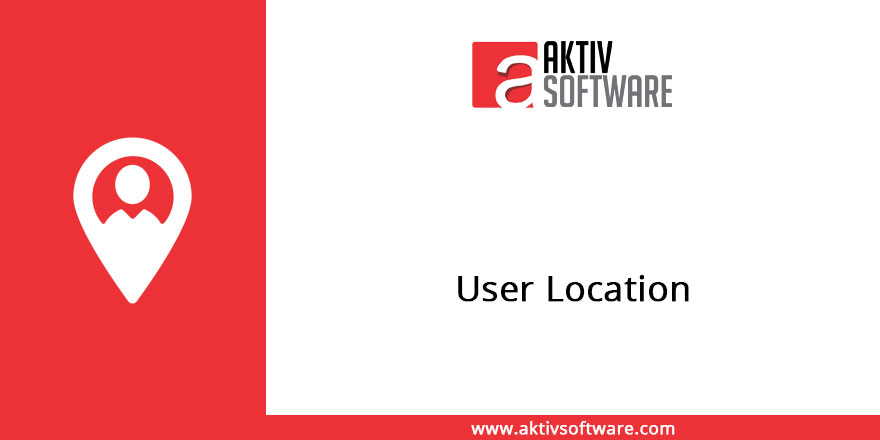
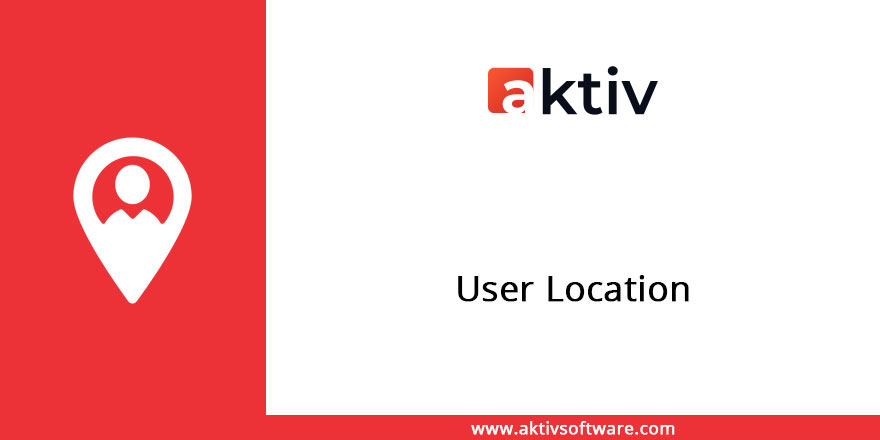
[INIT] Initial commit for User location for master branch

Changed region(s): [[0.5216, 0.0886, 0.767, 0.2659]]

diff --git a/user_location/static/description/index.html b/user_location/static/description/index.html
@@ -1,19 +1,54 @@
-<section class="oe_container oe_dark">
-    <div class="oe_row oe_padded">
-        
-    <div class="panel-heading"
-        style="padding: 8px; font-weight: 300; font-size: 20px; background-color: #004460;">
-        <i class="fa fa-cog" style="color: white;"></i> <b
-            style="color: white;">How it Works </b>
-    </div>
-
-    <h3 class="oe_slogan oe_mt16">Login History</h3>
-    <h6><span class="fa fa-hand-o-right"/> Users Logged In Time &amp; Logged In Location</h6>
-    <div class="oe_span12">
-        <div class="oe_row_img">
-            <img class="oe_picture oe_screenshot" src="login_info.png">
+<section class="oe_container">
+    <div class="oe_row oe_centered">
+        <div class="oe_span_10 oe_centered">
+            <h4 class="oe_slogan" style="margin-left: 120px;"><b><span class="fa fa-star fa-spin"></span>
+                    User Location </span></b></h4>
         </div>
     </div>
-    <br/>
-</section>
 
+    <p align="left">The User Location module allows the admin to track the time and location when a user logged in to the system. Under the Administrator tab you can find a new “Login History” field which will contain the time and location of recent logins.</p>
+
+    <div class="oe_row oe_centered">
+        <div class="oe_span_10 oe_centered">
+            <h4 class="oe_slogan" style="margin-left: 120px;"><b><span class="fa fa-star fa-spin"></span>
+                    Prerequisites before Installation </span></b></h4>
+        </div>
+    </div>
+    <p align="left">No prerequisites needed.</p>
+
+
+    <div class="oe_row oe_centered">
+        <div class="oe_span_10 oe_centered">
+            <h4 class="oe_slogan" style="margin-left: 120px;"><b><span class="fa fa-star fa-spin"></span>
+                    Configurations </span></b></h4>
+        </div>
+    </div>
+    <p align="left">No configurations.</p>
+
+
+    <div class="oe_centered">
+        <p>As shown in the below image Admin can get the access to view the login details of users. The login details will consist- location (Name of the city, State and Country), Date and time.</p>
+    </div>
+    <div class="oe_row oe_centered">
+        <div class="oe_span12">
+            <img src="login_info.png" style="width: 100%;"/>
+        </div>
+    </div>
+
+    <div class="oe_row oe_spaced">
+        <h2 class="oe_slogan">
+            <a href="http://aktivsoftware.com/" target="new">
+                <img src="aktiv-logo.png"/>
+            </a>
+            <br/>
+            <a href="mailto:sales@aktivsoftware.com" style="color: #000000 !important;">
+                        Get Help &amp; Support
+            </a>
+        </h2>
+        <div class="oe_slogan oe_spaced text-center">
+            <a class="btn btn success mt8" title="website" target="new" style="background-color:#ff4040;  color: #ffffff; !important; position:relative; overflow: hidden;" href="http://aktivsoftware.com/"><b>Website</b></a>
+            <a class="btn btn success mt8" title="Contact Us" style="background-color:#ff4040; color: #ffffff; !important; position:relative; overflow: hidden;" href="mailto:sales@aktivsoftware.com"><b>Contact Us</b></a>
+            <a class="btn btn success mt8" title="Request New Features Now!" style="background-color:#ff4040; color: #ffffff; !important; position:relative; overflow: hidden;" href="mailto:sales@aktivsoftware.com"><b>Request For New Features</b></a>
+        </div>
+    </div>
+</section>

diff --git a/user_location/__manifest__.py b/user_location/__manifest__.py
@@ -2,14 +2,17 @@
 {
     'name': 'User Location',
     'summary': 'Here users location is fetched',
-    'version': '10',
-    'author':"Aktiv Software",
+    'version': '11',
+    'license': "AGPL-3",
+    'author': "Aktiv Software",
     'category': 'sale',
     'depends': ['base'],
     'website': 'www.aktivsoftware.com',
     'data': [
         'views/res_user.xml',
     ],
+
+    'images': ['static/description/banner.jpg'],
     'installable': True,
     'auto_install': False,
 }

diff --git a/user_location/models/res_user.py b/user_location/models/res_user.py
@@ -7,8 +7,8 @@ class ResUserLog(models.Model):
     _inherit = 'res.users.log'
 
     location = fields.Char()
-    login_date = fields.Datetime(compute="_get_login_date",
-                                 string="Login Date")
+    login_date = fields.Datetime(
+        compute="_get_login_date", string="Login Date")
 
     @api.multi
     def _get_login_date(self):

diff --git a/user_location/models/__init__.py b/user_location/models/__init__.py
@@ -1,2 +1,1 @@
-# -*- coding: utf-8 -*-
-import res_user
+from . import res_user

diff --git a/user_location/__init__.py b/user_location/__init__.py
@@ -1,2 +1,2 @@
 # -*- coding: utf-8 -*-
-import models
+from . import models

diff --git a/user_location/README.md b/user_location/README.md
@@ -1,7 +1,7 @@
 Uer Location App
 ------------------------------------
 
-Odoo Version : Odoo 10.0 Community for master
+Odoo Version : Odoo 11.0 Community Master
 
 
 Installation 
